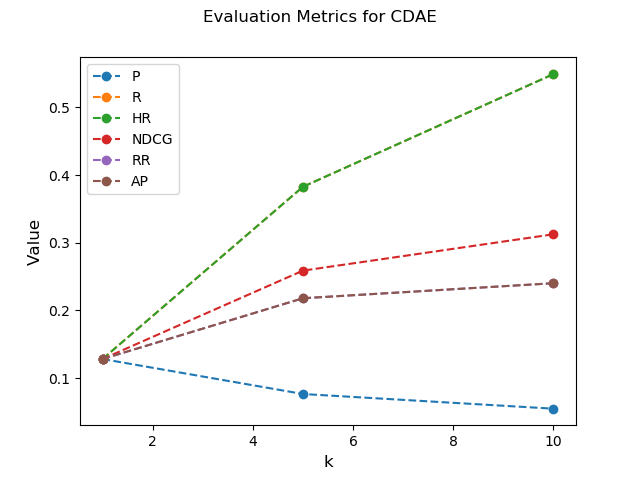
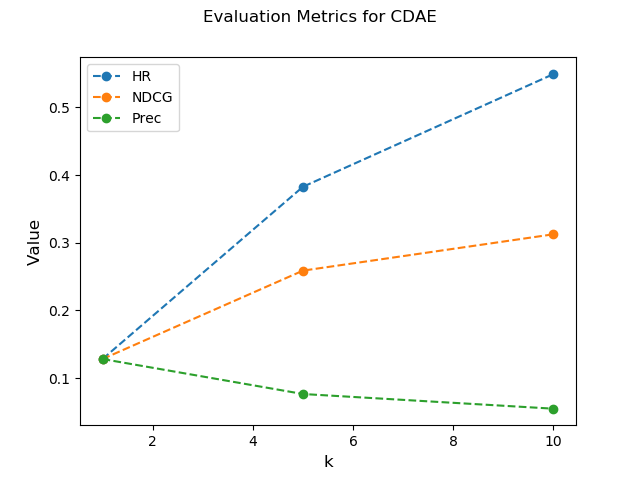
Implement automatic regularization when using tf.keras.Model or tf.keras.Layers

diff --git a/DRecPy/Recommender/recommender_abc.py b/DRecPy/Recommender/recommender_abc.py
@@ -17,16 +17,22 @@ class RecommenderABC(ABC):
     """Base recommender abstract class.
 
     This class implements the skeleton methods required for building a recommender.
-    It provides id-abstraction (handles conversion between raw to internal ids - by ),
+    It provides id-abstraction (handles conversion between raw to internal ids,
     auto identifier validation (if a given user/item is known or not), automatic progress logging, weight updates,
     tracking loss per epoch and support for other features such as epoch callbacks and early stopping. It has a
     structure that allows it to be fully extensible, whilst promoting model specific behavior for improved flexibility.
     All private methods are called with internal ids only, and all public methods must be called with raw ids only.
 
     The following methods are still required to be implemented: _pre_fit(), _sample_batch(), _predict_batch(),
-    _compute_batch_loss(), _compute_reg_loss() and _predict().
+    _compute_batch_loss() and _predict().
     If there are no trainable variables set during the _pre_fit(), batch training is skipped (useful for non-deep
-    learning models).
+    learning models). Trainable variables can be registered via _register_trainable() or _register_trainables().
+
+    If the provided trainable variables are of type tf.keras.models.Model or tf.keras.layers.Layer, then the
+    regularizers added when instantiating these variables (e.g. via kernel_regularizer attribute of a layer) will be
+    used to automatically compute the regularization loss. To add a custom regularization loss
+    (or if the implemented model uses tf.Variables), implement the self._compute_reg_loss().
+
     Optionally, these methods can be overridden: _rank() and _recommend().
 
     Args:
@@ -55,6 +61,9 @@ class RecommenderABC(ABC):
         self.interaction_threshold = kwds.get('interaction_threshold', 1e-3)
         self.interaction_dataset = None
         self.trainable_vars = []
+        self.trainable_weights = []
+        self.trainable_layers = []
+        self.trainable_models = []
         self.optimizer = None
 
         self._loss_tracker = None
@@ -127,7 +136,6 @@ class RecommenderABC(ABC):
 
         self._loss_tracker = LossTracker()
 
-        # Log extra info
         self._log_initial_info()
 
         self._info('Creating auxiliary structures...')
@@ -137,13 +145,16 @@ class RecommenderABC(ABC):
             self._register_optimizer(kwds.get('optimizer'))
         self.fitted = True  # should be able to make predictions after pre fit
 
-        if len(self.trainable_vars) == 0:
+        if len(self.trainable_weights) == 0 and len(self.trainable_layers) == 0 and len(self.trainable_models) == 0:
             self._info('No trainable vars found: skipping further model training. If this is non-intentional, please '
                       'use self._register_trainable or self._register_trainables to register variables that are '
                       'subject to weight updates.')
             return
 
-        self._info(f'Number of registered trainable variables: {len(self.trainable_vars)}')
+        self._info(f'Number of registered trainable variables: '
+                   f'{len(self.trainable_weights) + len(self.trainable_layers) + len(self.trainable_models)}')
+
+        progress_desc = ''
 
         epoch_callback_fn = kwds.get('epoch_callback_fn', None)
         epoch_callback_res, epoch_callback_res_registered = None, True
@@ -164,14 +175,19 @@ class RecommenderABC(ABC):
         for e in _iter:
             batch_samples = self._sample_batch(batch_size, **kwds)
             with tf.GradientTape() as tape:
-                for trainable_var in self.trainable_vars:
-                    tape.watch(trainable_var)
                 predictions, desired_values = self._predict_batch(batch_samples, **kwds)
-                loss = self._compute_batch_loss(predictions, desired_values, **kwds) + \
-                       self._compute_reg_loss(reg_rate, len(batch_samples))
 
-            gradients = tape.gradient(loss, self.trainable_vars)
-            self._update_weights(gradients)
+                trainable_weights = self.trainable_weights + \
+                                    [layer.trainable_weights for layer in self.trainable_layers] + \
+                                    [model.trainable_weights for model in self.trainable_models]
+                for trainable_weight in trainable_weights:
+                    tape.watch(trainable_weight)
+
+                loss = self._compute_batch_loss(predictions, desired_values, **kwds) + \
+                    self._compute_reg_loss(reg_rate, len(batch_samples), self.trainable_models, self.trainable_layers, self.trainable_weights)
+
+            gradients = tape.gradient(loss, trainable_weights)
+            self._update_weights(gradients, trainable_weights)
 
             if self.verbose:
                 self._loss_tracker.add_epoch_loss(loss)
@@ -199,11 +215,18 @@ class RecommenderABC(ABC):
         self._info('Model fitted.')
 
     def _register_trainable(self, variable):
-        try:
-            iter(variable)
-        except TypeError:
-            variable = [variable]
-        self.trainable_vars.append(variable)
+        if variable is None:
+            raise Exception('Cannot register None as a trainable variable.')
+
+        if isinstance(variable, tf.keras.models.Model):
+            self.trainable_models.append(variable)
+        elif isinstance(variable, tf.keras.layers.Layer):
+            self.trainable_layers.append(variable)
+        elif tf.is_tensor(variable):
+            self.trainable_weights.append(variable)
+        else:
+            raise Exception(f'Invalid trainable variable {variable}. The supported types are: tf.keras.models.Model, '
+                            f'tf.keras.layers.Layer and tf.Variable.')
 
     def _register_trainables(self, variables):
         for variable in variables:
@@ -239,16 +262,26 @@ class RecommenderABC(ABC):
         through the _register_trainable or _register_trainables)."""
         pass
 
-    @abstractmethod
-    def _compute_reg_loss(self, reg_rate, batch_size, **kwds):
-        """Abstract method that should compute the model's regularization loss, using the provided regularization
-        rate and taking into account that the updates to the weights are made for every batch_size iterations."""
-        pass
+    def _compute_reg_loss(self, reg_rate, batch_size, trainable_models, trainable_layers, trainable_weights, **kwds):
+        """Method that computes the model's regularization loss, using the provided regularization
+        rate and taking into account that the updates to the weights are made for every batch_size iterations.
 
-    def _update_weights(self, gradients):
-        for gradient, trainable_var in zip(gradients, self.trainable_vars):
+        The default implementation is only useful when the registered trainable variables are of type
+        tf.keras.models.Model or tf.keras.layers.Layer, in which case the registered regularizers (e.g. via
+        kernel_regularizer attribute of a layer) are added to the loss of the recommender for each batch.
+
+        If the registered variables are of type tf.Variable, then the trainable_layers and trainable_models parameters
+        will be empty lists, and the trainable_weights parameter will contain these tf.Variables that are updated for
+        each epoch."""
+        return sum([tf.math.add_n(trainable.losses) if len(trainable.losses) > 0 else 0
+                    for trainable in trainable_layers + trainable_models])
+
+    def _update_weights(self, gradients, trainable_weights):
+        for gradient, trainable_var in zip(gradients, trainable_weights):
             if tf.is_tensor(gradient):
                 gradient = [gradient]
+            if tf.is_tensor(trainable_var):
+                trainable_var = [trainable_var]
             self.optimizer.apply_gradients(zip(gradient, trainable_var))
 
     def predict(self, user_id, item_id, skip_errors=False, **kwds):

diff --git a/DRecPy/Recommender/dmf.py b/DRecPy/Recommender/dmf.py
@@ -57,8 +57,7 @@ class DMF(RecommenderABC):
         for item_factor in self.item_factors[1:]:
             self.item_nn.add(tf.keras.layers.Dense(item_factor, activation=tf.nn.relu, kernel_regularizer=l2_reg))
 
-        self._register_trainable(self.user_nn.trainable_variables)
-        self._register_trainable(self.item_nn.trainable_variables)
+        self._register_trainables([self.user_nn, self.item_nn])
 
         self._sampler = PointSampler(self.interaction_dataset, neg_ratio, self.interaction_threshold, self.seed)
 
@@ -98,9 +97,6 @@ class DMF(RecommenderABC):
 
     def _compute_batch_loss(self, predictions, desired_values, **kwds):
         return self._loss(desired_values, predictions)
-
-    def _compute_reg_loss(self, reg_rate, batch_size, **kwds):
-        return tf.math.add_n(self.user_nn.losses) + tf.math.add_n(self.item_nn.losses)
 
     def _predict(self, uid, iid, **kwds):
         user_tensors, item_tensors = self._preprocess_input([uid], [iid])

diff --git a/examples/custom_deep_recommender.py b/examples/custom_deep_recommender.py
@@ -36,9 +36,9 @@ class TestRecommender(RecommenderABC):
         self._info(f'doing _compute_batch_loss: predictions={predictions}, desired_values={desired_values}')
         return self._loss(desired_values, predictions)
 
-    def _compute_reg_loss(self, reg_rate, batch_size, **kwds):
+    def _compute_reg_loss(self, reg_rate, batch_size, trainable_models, trainable_layers, trainable_weights, **kwds):
         self._info(f'doing _compute_reg_loss: reg_rate={reg_rate}, batch_size={batch_size}')
-        return tf.nn.l2_loss(self._weights) * reg_rate / (2 * batch_size)
+        return tf.nn.l2_loss(trainable_weights) * reg_rate / batch_size
 
     def _predict(self, uid, iid, **kwds):
         # predict for a (user, item) pair

diff --git a/examples/cdae_validation.py b/examples/cdae_validation.py
@@ -5,6 +5,7 @@ from DRecPy.Evaluation.Processes import ranking_evaluation
 from DRecPy.Evaluation.Splits import leave_k_out
 from DRecPy.Evaluation.Metrics import ndcg
 from DRecPy.Evaluation.Metrics import hit_ratio
+from DRecPy.Evaluation.Metrics import precision
 import time
 
 
@@ -28,4 +29,5 @@ print("Training took", time.time() - start_train)
 
 print(ranking_evaluation(cdae, ds_test, k=[1, 5, 10], novelty=True, n_pos_interactions=1,
                          n_neg_interactions=100, generate_negative_pairs=True, seed=10,
+                         metrics={'HR': (hit_ratio, {}), 'NDCG': (ndcg, {}), 'Prec': (precision, {})},
                          max_concurrent_threads=4, verbose=True))

diff --git a/DRecPy/Recommender/cdae.py b/DRecPy/Recommender/cdae.py
@@ -78,8 +78,8 @@ class CDAE(RecommenderABC):
     def _compute_batch_loss(self, predictions, desired_values, **kwds):
         return self._loss(desired_values, predictions)
 
-    def _compute_reg_loss(self, reg_rate, batch_size, **kwds):
-        return sum([tf.nn.l2_loss(v) for v in [self.W, self.W_, self.V, self.b, self.b_]]) * reg_rate / (2 * batch_size)
+    def _compute_reg_loss(self, reg_rate, batch_size, trainable_models, trainable_layers, trainable_weights, **kwds):
+        return sum([tf.nn.l2_loss(v) for v in [self.W, self.W_, self.V]]) * reg_rate / batch_size
 
     def _predict(self, uid, iid=None, **kwds):
         if uid is None: return None

diff --git a/examples/custom_non_deep_recommender.py b/examples/custom_non_deep_recommender.py
@@ -22,9 +22,6 @@ class TestRecommenderNonDeepLearning(RecommenderABC):
     def _compute_batch_loss(self, predictions, desired_values, **kwds):
         raise NotImplemented  # since it's non-deep learning based, no need for batch training
 
-    def _compute_reg_loss(self, reg_rate, batch_size, **kwds):
-        raise NotImplemented  # since it's non-deep learning based, no need for batch training
-
     def _predict(self, uid, iid, **kwds):
         return 5  # predict for a (user, item) pair
 

diff --git a/examples/consistency_eval/ml_knn.py b/examples/consistency_eval/ml_knn.py
@@ -8,8 +8,7 @@ from DRecPy.Evaluation.Metrics import ndcg
 
 ds = get_full_dataset('ml-100k')
 
-ds_train, ds_test = matrix_split(ds, user_test_ratio=0.2, item_test_ratio=0.2, seed=15,
-                                 verbose=False)
+ds_train, ds_test = matrix_split(ds, user_test_ratio=0.2, item_test_ratio=0.2, seed=0, verbose=False)
 
 # cosine sim
 knn = UserKNN(k=10, m=0, sim_metric='cosine_cf', shrinkage=None, seed=15, use_averages=False, verbose=True)

diff --git a/docs/source/user_guide/creating_recommender.rst b/docs/source/user_guide/creating_recommender.rst
@@ -8,7 +8,7 @@ DRecPy allows you to easily implement novel recommender models without the need 
 
 Deep Learning-based Recommenders
 --------------------------------
-To create a DL-based recommender you should create a class that extends the `RecommenderABC` class, and implements at least the required abstract methods: `_pre_fit()`, `_sample_batch()`, `_predict_batch()`, `_compute_batch_loss()`, `_compute_reg_loss()`  and `_predict()`.
+To create a DL-based recommender you should create a class that extends the `RecommenderABC` class, and implements at least the required abstract methods: `_pre_fit()`, `_sample_batch()`, `_predict_batch()`, `_compute_batch_loss()` and `_predict()`.
 
 The `_pre_fit()` method should:
 
@@ -22,9 +22,10 @@ The `_predict_batch()` method should compute predictions for each of the sampled
 
 The `_compute_batch_loss()` method should compute and return the loss value associated with the given predictions and desired values. This loss must be differentiable with respect to all training variables, so that weight updates can be made.
 
-The `_compute_reg_loss()` method should compute and return the regularization loss value associated with the trainable variables.
-
 Finally, the `_predict()` method should compute a single prediction, for the provided user id and item id.
+
+Another method that can be overridden is the `_compute_reg_loss()`, which should compute and return the regularization loss value associated with the trainable variables.
+Its default implementation is only useful when the registered trainable variables are of type tf.keras.models.Model or tf.keras.layers.Layer, in which case the registered regularizers (e.g. via kernel_regularizer attribute of a layer) are added to the loss of the recommender for each batch.
 
 If the `_rank()` method is not implemented, and if you call `rank()` on the new model, the `_predict()` method will be used to score each item.
 Similarly, if the `_recommend()` method is not implemented, and if you call `recommend()`, the `rank()` will also be used to rank all existent items and return the top `N`.
@@ -48,11 +49,11 @@ Some other **important notes**:
 
 Non-Deep Learning-based Recommenders
 ------------------------------------
-To create a non-DL-based recommender you should create a class that extends the `RecommenderABC` class, and implements at least the required abstract methods: `_pre_fit()`, `_sample_batch()`, `_predict_batch()`, `_compute_batch_loss()`,  `_compute_reg_loss()` and `_predict()`.
+To create a non-DL-based recommender you should create a class that extends the `RecommenderABC` class, and implements at least the required abstract methods: `_pre_fit()`, `_sample_batch()`, `_predict_batch()`, `_compute_batch_loss()` and `_predict()`.
 
 Note that in this case, the implementation of the `_sample_batch()`, `_predict_batch()`, `_compute_batch_loss()` and  `_compute_reg_loss()` is irrelevant, since they will never be called.
 
-The `_pre_fit()` method should create the required data structures and do the computations to completely fit the model, because no batch training will be applied. In this case, **no trainable variable can be registered**.
+The `_pre_fit()` method should create the required data structures and do the computations to completely fit the model, because no batch training will be applied. In this case, **trainable variables must not be registered**, otherwise batch-training will proceed.
 
 All other methods such as the `_predict()`, `_rank()` and `_recommend()`, follow the same guidelines.
 
@@ -72,7 +73,9 @@ To extend an existent recommender, one should:
 - If there are changes to the batch sampling workflow, override the `_sample_batch()` method and call its original (if some of its logic can be reused), and then apply the custom logic;
 - When there are changes on the way predictions are made, override the `_predict_batch()` and call its original (if some of its logic can be reused), followed by adding the custom prediction logic to the existent predictions. Sometimes, if the original model has independent logic on the `_predict()` that does not use the `_predict_batch()`, you might need to override it too.
 - If there are changes to the way the predictive loss function is computed, override the `_compute_batch_loss()` and adapt it to return the new predictive loss value from the provided predictions and expected values.
-- If there are changes to the way the regularization loss function is computed, maybe due to having additional trainable variables, override the `_compute_reg_loss()` and adapt it to return the new regularization loss value from the current state of the network's weights.
+- Overriding the `_compute_reg_loss()` is only necessary in some situations. Make sure that:
+    1. If the new model uses trainable variables of type tf.keras.models.Model or tf.keras.layers.Layer, and you've added their regularization using the regularization parameters of each layer (e.g. kerner_regularizer attribute), the `RecommenderABC._compute_reg_loss()` should always be called.
+    2. If the new model uses trainable variables of type tf.Variable, override the `_compute_reg_loss()` to compute their regularization values. Note that if the original model uses trainable variables of type tf.keras.models.Model or tf.keras.layers.Layer, the `RecommenderABC._compute_reg_loss()` should always be called.
 
 A very simple example of extending an existing model is shown bellow, which is a modification of the DMF (Deep Matrix Factorization) recommender:
 

diff --git a/README.md b/README.md
@@ -35,8 +35,7 @@ otherwise, if you're developing a model, you won't need to use raw ids.
 recommender systems.
 - **Sampling techniques** for point based and list based models.
 - **Evaluation processes** for predictive models, as well as for learn-to-rank models.
-- **Support for multi-column data sets**, i.e. not being limited to (user, item, rating) triples.
-- Automatic **plot generation for loss values during model training**, as well as test scores during
+- Automatic **progress logging** and **plot generation for loss values during model training**, as well as test scores during
 model evaluation.
 - **All methods with stochastic factors receive a seed parameter**, in order to allow result reproducibility.
 
@@ -84,6 +83,7 @@ from DRecPy.Evaluation.Processes import ranking_evaluation
 from DRecPy.Evaluation.Splits import leave_k_out
 from DRecPy.Evaluation.Metrics import ndcg
 from DRecPy.Evaluation.Metrics import hit_ratio
+from DRecPy.Evaluation.Metrics import precision
 import time
 
 
@@ -107,27 +107,29 @@ print("Training took", time.time() - start_train)
 
 print(ranking_evaluation(cdae, ds_test, k=[1, 5, 10], novelty=True, n_pos_interactions=1,
                          n_neg_interactions=100, generate_negative_pairs=True, seed=10,
+                         metrics={'HR': (hit_ratio, {}), 'NDCG': (ndcg, {}), 'Prec': (precision, {})},
                          max_concurrent_threads=4, verbose=True))
 ```
 
 **Output**:
 
 ```
-[2020-08-10 21:11:26,630] (INFO) CDAE_CLOGGER: Max. interaction value: 5
-[2020-08-10 21:11:26,631] (INFO) CDAE_CLOGGER: Min. interaction value: 0
-[2020-08-10 21:11:26,631] (INFO) CDAE_CLOGGER: Interaction threshold value: 0.001
-[2020-08-10 21:11:26,631] (INFO) CDAE_CLOGGER: Number of unique users: 943
-[2020-08-10 21:11:26,631] (INFO) CDAE_CLOGGER: Number of unique items: 1680
-[2020-08-10 21:11:26,631] (INFO) CDAE_CLOGGER: Number of training points: 89627
-[2020-08-10 21:11:26,632] (INFO) CDAE_CLOGGER: Sparsity level: approx. 94.3426%
-[2020-08-10 21:11:26,632] (INFO) CDAE_CLOGGER: Creating auxiliary structures...
-[2020-08-10 21:11:26,691] (INFO) CDAE_CLOGGER: Number of registered trainable variables: 5
+[2020-08-30 22:15:26,523] (INFO) CDAE_CLOGGER: Max. interaction value: 5
+[2020-08-30 22:15:26,523] (INFO) CDAE_CLOGGER: Min. interaction value: 0
+[2020-08-30 22:15:26,523] (INFO) CDAE_CLOGGER: Interaction threshold value: 0.001
+[2020-08-30 22:15:26,523] (INFO) CDAE_CLOGGER: Number of unique users: 943
+[2020-08-30 22:15:26,523] (INFO) CDAE_CLOGGER: Number of unique items: 1680
+[2020-08-30 22:15:26,523] (INFO) CDAE_CLOGGER: Number of training points: 89627
+[2020-08-30 22:15:26,523] (INFO) CDAE_CLOGGER: Sparsity level: approx. 94.3426%
+[2020-08-30 22:15:26,523] (INFO) CDAE_CLOGGER: Creating auxiliary structures...
+[2020-08-30 22:15:26,576] (INFO) CDAE_CLOGGER: Number of registered trainable variables: 5
+Fitting model... Epoch 50 Loss: 0.2147 | val_HR@10: 0.5589 | val_NDCG@10: 0.3152: 100%|██████████| 50/50 [05:16<00:00, 17.36s/it]
 [2020-08-10 21:18:13,798] (INFO) CDAE_CLOGGER: Model fitted.
 Training took 364.9486310482025
 
-{'P@1': 0.1283, 'P@5': 0.0766, 'P@10': 0.0549, 'R@1': 0.1283, 'R@5': 0.3828, 'R@10': 0.5493, 
-'HR@1': 0.1283, 'HR@5': 0.3828, 'HR@10': 0.5493, 'NDCG@1': 0.1283, 'NDCG@5': 0.2589, 'NDCG@10': 0.3126, 
-'RR@1': 0.1283, 'RR@5': 0.2181, 'RR@10': 0.2403, 'AP@1': 0.1283, 'AP@5': 0.2181, 'AP@10': 0.2403}
+{'HR@1': 0.1283, 'HR@5': 0.3828, 'HR@10': 0.5493, 'NDCG@1': 0.1283, 'NDCG@5': 0.2589, 
+'NDCG@10': 0.3126, 'Prec@1': 0.1283, 'Prec@5': 0.0766, 'Prec@10': 0.0549}
+
 ```
 
 **Generated Plots**:
@@ -142,14 +144,16 @@ Training took 364.9486310482025
 
 More quick and easy examples are available [here](https://github.com/fabioiuri/DRecPy/tree/master/examples).
 
-Implemented Models
-------------------
+Implemented Recommenders
+------------------------
+
+#### Deep Learning-Based
 | Recommender Type |   Name    |
 |:----------------:|:---------:|
 | Learn-to-rank    | [CDAE (Collaborative Denoising Auto-Encoder)](https://drecpy.readthedocs.io/en/latest/api_docs/DRecPy.Recommender.html#module-DRecPy.Recommender.cdae) |
 | Learn-to-rank    | [DMF (Deep Matrix Factorization)](https://drecpy.readthedocs.io/en/latest/api_docs/DRecPy.Recommender.html#module-DRecPy.Recommender.dmf)              |
 
-#### Implemented Baselines (non deep learning based) 
+#### Non-Deep Learning-Based
 | Recommender Type |   Name    |
 |:----------------:|:---------:|
 | Predictive       | [User/Item KNN](https://drecpy.readthedocs.io/en/latest/api_docs/DRecPy.Recommender.Baseline.html#drecpy-recommender-baseline-knn-module) |
@@ -169,6 +173,8 @@ Contributors
 
 This work was conducted under the supervision of Prof. Francisco M. Couto, and during the initial development phase the project was financially supported by a FCT research scholarship UID/CEC/00408/2019, under the research institution LASIGE, from the Faculty of Sciences, University of Lisbon.
 
+Public contribution is welcomed, and if you wish to contribute just open a PR or contect me fabioiuri@live.com.
+ 
 Development Status
 ------------------
 
@@ -177,7 +183,6 @@ Project in pre-alpha stage.
 Planned work:
 - Wrap up missing documentation
 - Implement more models
-- Implement list-wise sampling strategy
 - Refine and clean unit tests
 
 If you have any bugs to report or update suggestions, you can use DRecPy's [github issues page](https://github.com/fabioiuri/DRecPy/issues) or email me directly to fabioiuri@live.com.

diff --git a/TODO.md b/TODO.md
@@ -9,4 +9,4 @@
 - Add better structure to the Metrics submodule, so that its easier to understand what values are passed through during evaluation processes.
 - Add better structure to the Splits submodule, so that its easier to understand what values are passed through during evaluation processes.
 - Add better structure to the Processes submodule, so that its easier to understand what values are passed through during evaluation processes.
-- Add negative sampling to the list-wise sampler
+- null_interaction_pair_generator: if interaction_threshold is provided, should also sample negative pairs from the out-of-dataset
